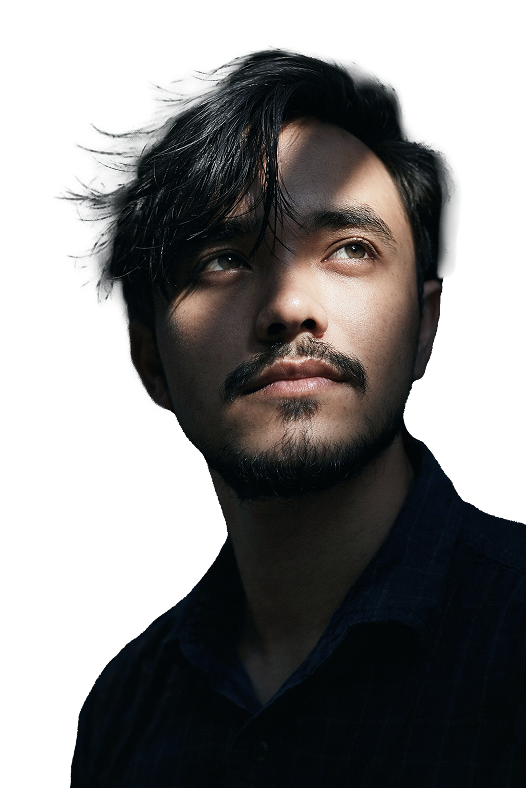
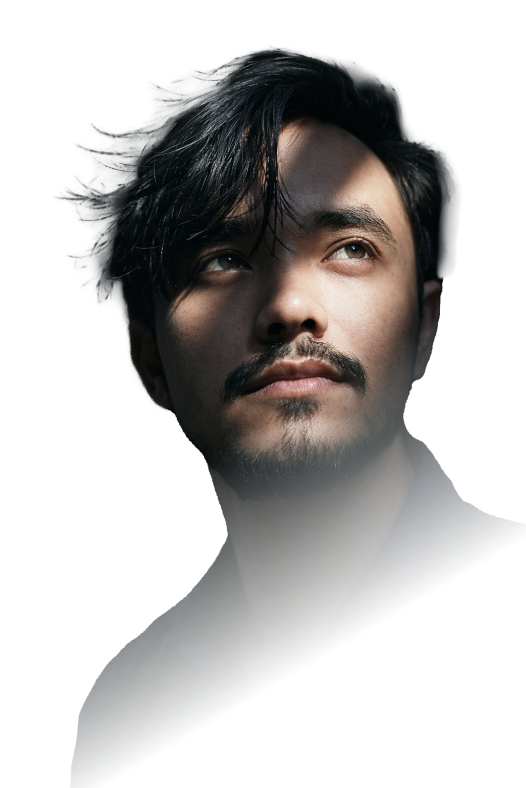
addd

diff --git a/app/layout.js b/app/layout.js
@@ -54,7 +54,7 @@ export default function RootLayout({ children }) {
         className={`${robotoFlex.variable} ${abrilFatface.variable} ${marckScript.variable} ${luxuryScript.variable} ${luxuryRoman.variable} ${cinzel.variable} ${poppins.variable}  bg-[#000000] text-white antialiased overflow-x-hidden`}
       >
         <div className="relative">
-          <div className="absolute top-40 right-0  h-[700px] w-[600px] bg-[radial-gradient(circle,#035AB7,#072340)] rounded-full opacity-40 blur-[180px] pointer-events-none overflow-x-hidden"></div>
+          <div className="xl:block hidden absolute xl:top-40 lg:top-30  right-0  h-[700px] w-[600px]  bg-[radial-gradient(circle,#035AB7,#072340)] rounded-full opacity-40 blur-[180px] pointer-events-none overflow-x-hidden"></div>
           <Navbar />
           <main className="">
             {children}

diff --git a/app/banner.js/page.js b/app/banner.js/page.js
@@ -17,9 +17,9 @@ export default function Banner() {
 
             {/* Decorative Circle */}
 
-            <div className="relative h-screen w-full flex justify-center overflow-hidden  max-w-[1440px] mx-auto px-10   ">
+            <div className="relative h-screen  w-full  flex justify-center overflow-hidden  max-w-[1440px] mx-auto px-10   ">
                 <div
-                    className="absolute inset-0 z-0 opacity-40 w-1/2 mx-auto"
+                    className="absolute inset-0 z-0 opacity-40 w-1/2   mx-auto"
                     style={{
                         backgroundImage: `url(${bannerImage.src})`,
                         backgroundSize: "cover",

diff --git a/app/myprofession/page.js b/app/myprofession/page.js
@@ -32,8 +32,8 @@ export default function MyProfession() {
         <section className="relative">
 
                
-            <section className=" max-w-[1440px] mx-auto flex px-6 md:px-10  overflow-x-hidden   py-20">
-                <div className="flex lg:flex-row flex-col items-center gap-8">
+            <section className=" max-w-[1440px] mx-auto flex px-6  md:px-10   overflow-x-hidden   py-20">
+                <div className="flex lg:flex-row flex-col items-center ">
 
                     {/* Left Side: Content */}
                          <motion.div

diff --git a/app/components/RahimIntriduce.js b/app/components/RahimIntriduce.js
@@ -8,7 +8,7 @@ import { motion } from "framer-motion";
 
 export default function RahimIntriduce() {
     return (
-        <section className=" overflow-hidden  xl:pb-40 pb-80 ">
+        <section className=" overflow-hidden  xl:pb-40 pb-80  pt-16 ">
             <div className="max-w-[1200px] mx-auto px-6 flex flex-col items-center relative">
 
                 {/* Profile Section with Floating Badges */}

diff --git a/app/components/Skills.js b/app/components/Skills.js
@@ -33,7 +33,7 @@ export default function Skills() {
 
         
             {/* Project Showcase Carousel */}
-            <div className=" bg-[#061422] py-10">
+            <div className=" bg-[#061422] py-10 mt-10 lg:mt-20">
                 {/* Top Text Marquee */}
                 <Marquee className="py-2" pauseOnHover repeat={6} reverse>
                     {tags.map((tag, index) => (
